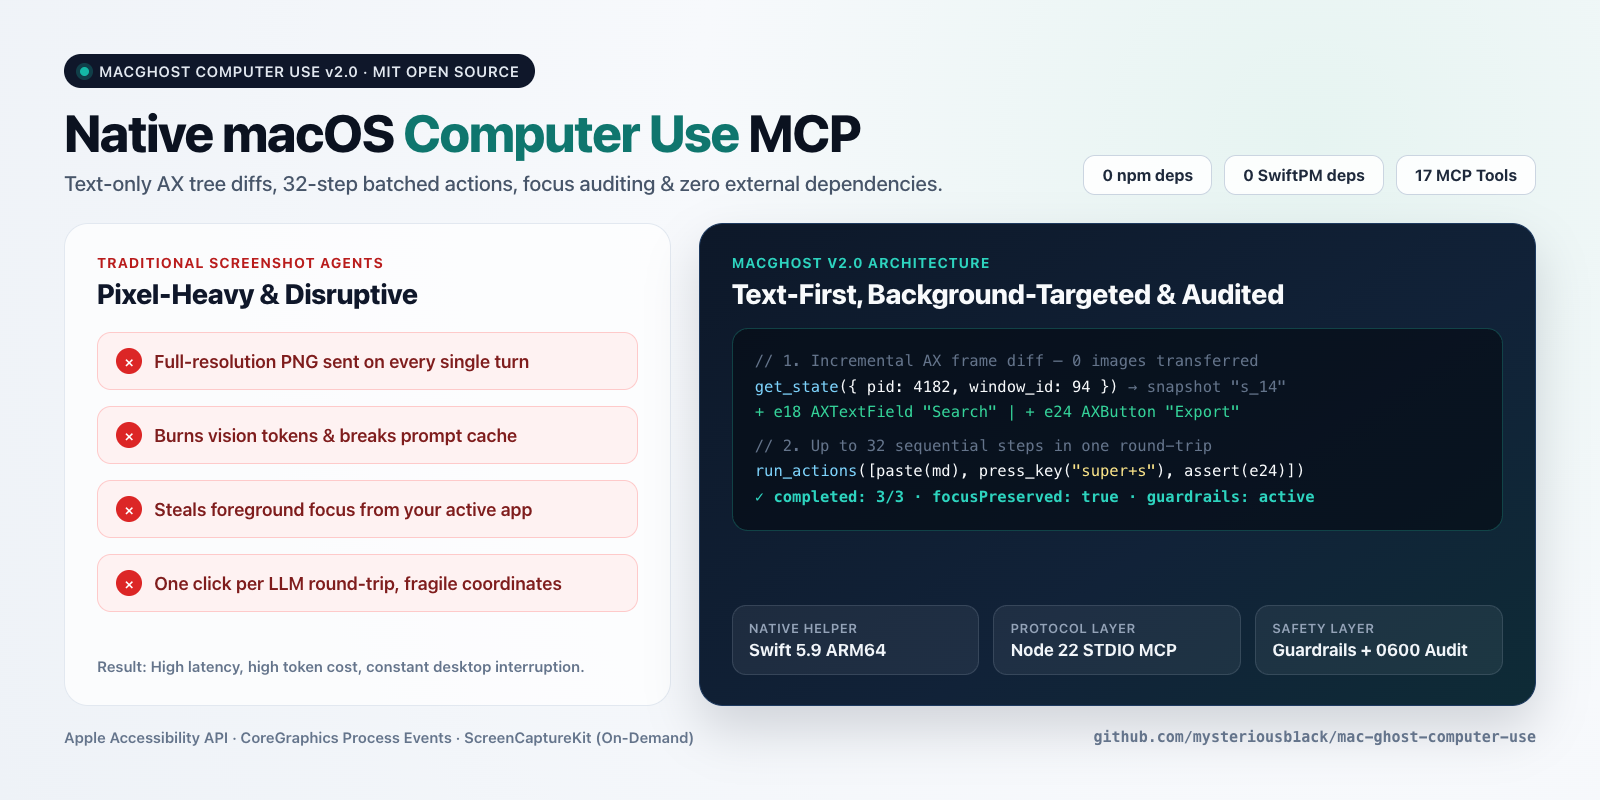
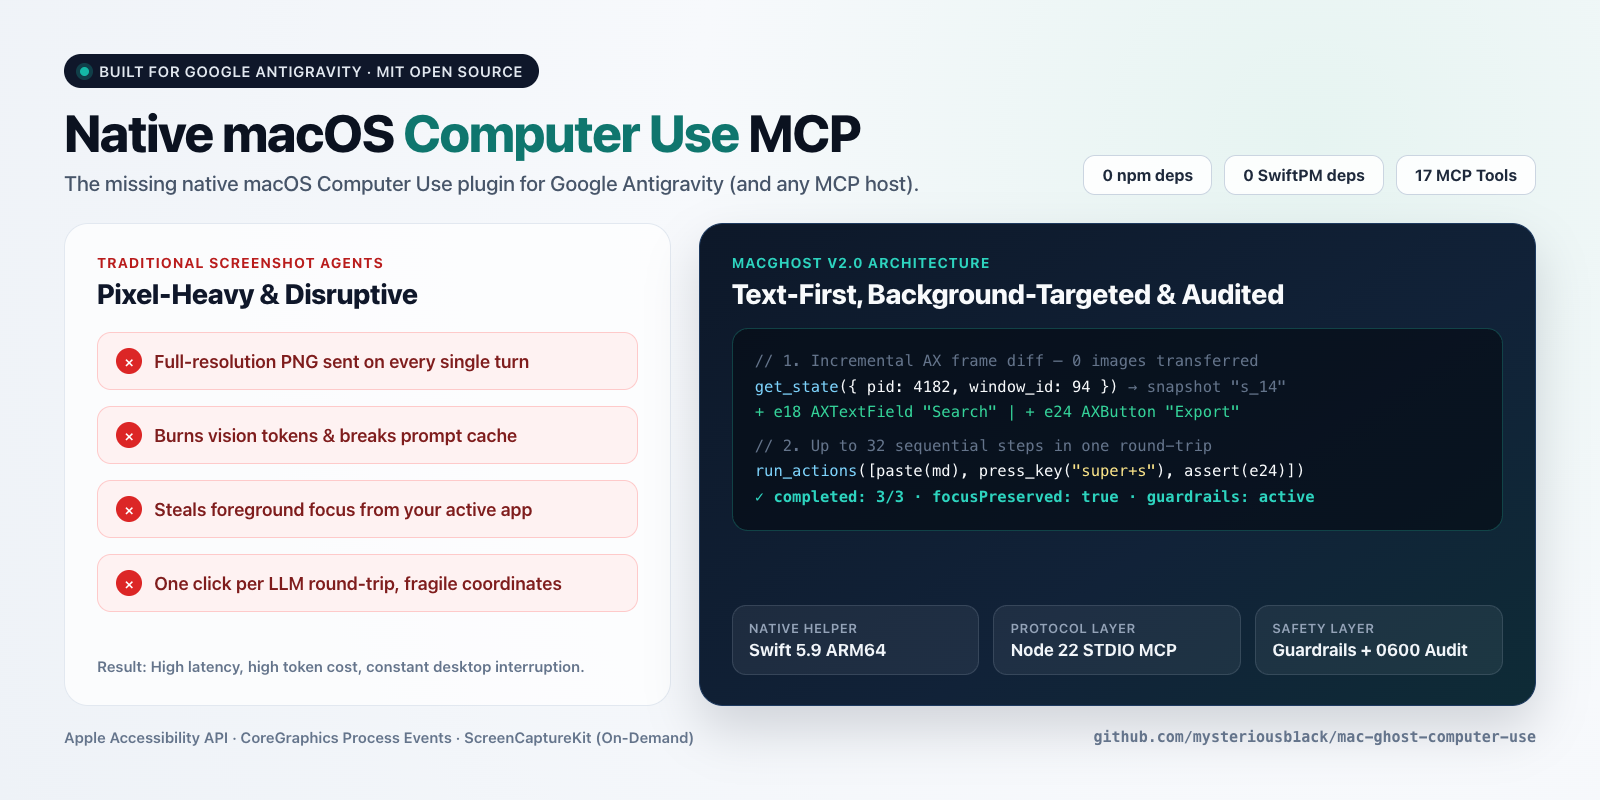
docs: highlight MacGhost as the missing native macOS Computer Use plugin for Google Antigravity

Changed region(s): [[0.0312, 0.2188, 0.5938, 0.25], [0.0625, 0.0625, 0.3438, 0.0938]]

diff --git a/README.md b/README.md
@@ -1,9 +1,10 @@
 # MacGhost Computer Use
 
-> **Native macOS Computer Use MCP Server — Text-Only AX Tree Diffs, 32-Step Action Batches, Focus Auditing, and Zero Dependencies.**
+> **The missing native macOS Computer Use plugin for Google Antigravity (and any MCP host) — Text-Only AX Tree Diffs, 32-Step Action Batches, Focus Auditing, and Zero Dependencies.**
 
+[![For Google Antigravity](https://img.shields.io/badge/Built%20for-Google%20Antigravity-0F766E?style=flat-square)](#quick-start)
 [![macOS 14+ Apple Silicon](https://img.shields.io/badge/macOS-14%2B%20Apple%20Silicon-111827?style=flat-square&logo=apple&logoColor=white)](#requirements)
-[![MCP Protocol](https://img.shields.io/badge/MCP-STDIO%202025--11--25-0F766E?style=flat-square)](#mcp-tools)
+[![MCP Protocol](https://img.shields.io/badge/MCP-STDIO%202025--11--25-0284C7?style=flat-square)](#mcp-tools)
 [![Zero Dependencies](https://img.shields.io/badge/Dependencies-0%20npm%20%7C%200%20SwiftPM-1D4ED8?style=flat-square)](#architecture)
 [![License: MIT](https://img.shields.io/badge/License-MIT-374151?style=flat-square)](LICENSE)
 
@@ -15,9 +16,9 @@
 
 ## Why MacGhost?
 
-Most desktop Computer Use agents take a full-resolution screenshot on every turn, send megabytes of image tokens to an LLM, and steal your foreground window focus just to click one button.
+**Google Antigravity** ships with powerful coding, terminal, and browser subagents — **but it does not yet ship with a native desktop Computer Use engine** for controlling local macOS apps (Finder, Notes, WPS/Office, MarginNote, Keynote, WeChat, etc.). Meanwhile, traditional screenshot-based Computer Use tools send megabytes of full-screen PNGs every turn, burn vision tokens, break prompt caching, and hijack your foreground window.
 
-**MacGhost v2.0** is built from scratch on native Apple APIs (`Accessibility`, `ScreenCaptureKit`, `CoreGraphics`) and a zero-dependency Node.js 22 MCP server:
+**MacGhost v2.0** fills that gap from scratch on native Apple APIs (`Accessibility`, `ScreenCaptureKit`, `CoreGraphics`) and a zero-dependency Node.js 22 MCP server:
 
 - **Text-first, image-optional**: `get_state` reads a compact Accessibility (AX) control tree with stable `e<id>` refs and returns **incremental frame diffs** (`remove_ranges` + `upsert`) by default — zero image payload on normal UI workflows. Fall back to `capture_window` with normalized crops and `6×4` coordinate grids only for canvas or unlabeled surfaces.
 - **Up to 32 steps per round-trip**: `run_actions` executes sequential actions, waits, and assertions (`ax_press`, `ax_set_value`, `click`, `scroll`, `type_text`, `press_key`, `paste`, `perform_secondary_action`, `drag`, `select_text`, `wait`, `assert`) in one MCP call, stopping immediately on stale frames or focus drift.

diff --git a/README_ZH.md b/README_ZH.md
@@ -1,6 +1,6 @@
 # MacGhost Computer Use（中文说明）
 
-> **纯原生 macOS 后台 Computer Use MCP 服务：纯文本 AX 控件树帧间 Diff、单次 32 步动作编排、焦点漂移审计，零第三方依赖。**
+> **补齐 Google Antigravity 缺失的原生 macOS 桌面 Computer Use 插件（同时兼容任意 MCP 客户端）：纯文本 AX 控件树帧间 Diff、单次 32 步动作编排、焦点漂移审计，零第三方依赖。**
 
 [English README](README.md)
 
@@ -10,9 +10,9 @@
 
 ## 为什么做 MacGhost？
 
-常见的桌面 Computer Use 方案每操作一步都要截一张整屏高清图发给大模型，既狂烧图像 Token、容易打穿上下文缓存，又经常直接抢占你的前台窗口。
+**Google Antigravity** 自带很强的代码、终端和浏览器代理能力，但**目前并没有原生桌面级 Computer Use**，没法直接操作你 Mac 上的本地客户端软件（如 Finder、WPS/Office、MarginNote、Keynote、本地专业软件等）。而市面常见的截图型桌面操控方案每操作一步都要截一张整屏高清图，既狂烧图像 Token、容易打穿上下文缓存，又老抢占前台窗口。
 
-**MacGhost v2.0** 完全基于 Apple 原生框架（`Accessibility`、`ScreenCaptureKit`、`CoreGraphics`）与 Node.js 22 标准库从零编写：
+**MacGhost v2.0** 专为 Google Antigravity 补齐这块原生桌面操控拼图，同时遵循标准 MCP 协议（Claude Desktop / Cursor / Codex 均可直连），完全基于 Apple 原生框架（`Accessibility`、`ScreenCaptureKit`、`CoreGraphics`）与 Node.js 22 标准库从零编写：
 
 - **默认纯文本无图流**：`get_state` 读取紧凑 AX 控件树并分配稳定引用 `e<id>`，后续调用默认只返回相对上一帧的增量 Diff（`remove_ranges` + `upsert`），常规办公和桌面操作零图片传输。仅在画布或缺少 AX 标签时才按需用 `capture_window`（支持归一化裁剪和 `6×4` 网格坐标）。
 - **单次 32 步批量连招**：`run_actions` 一次 MCP 调用即可串行执行最多 32 个步骤（支持点击、按键、富文本粘贴、选词、拖拽、等待、控件状态断言），遇到界面过期（`STALE_FRAME`）或焦点漂移自动停止不盲点。
